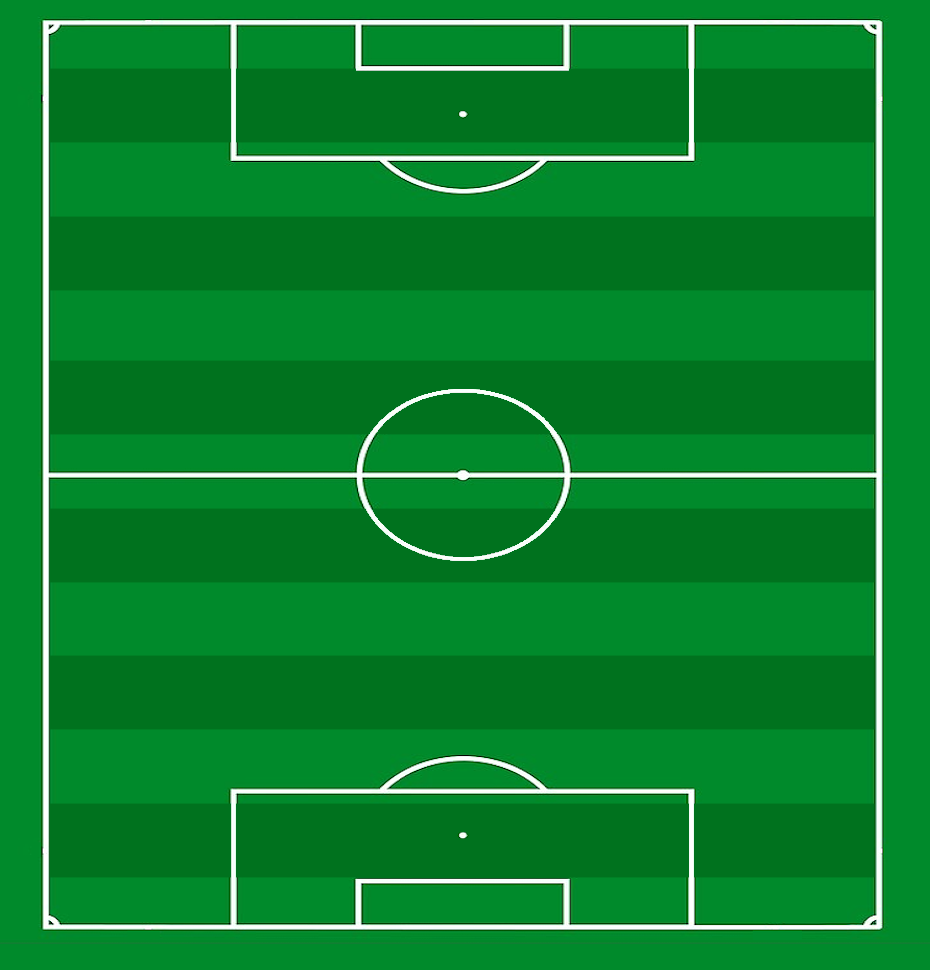
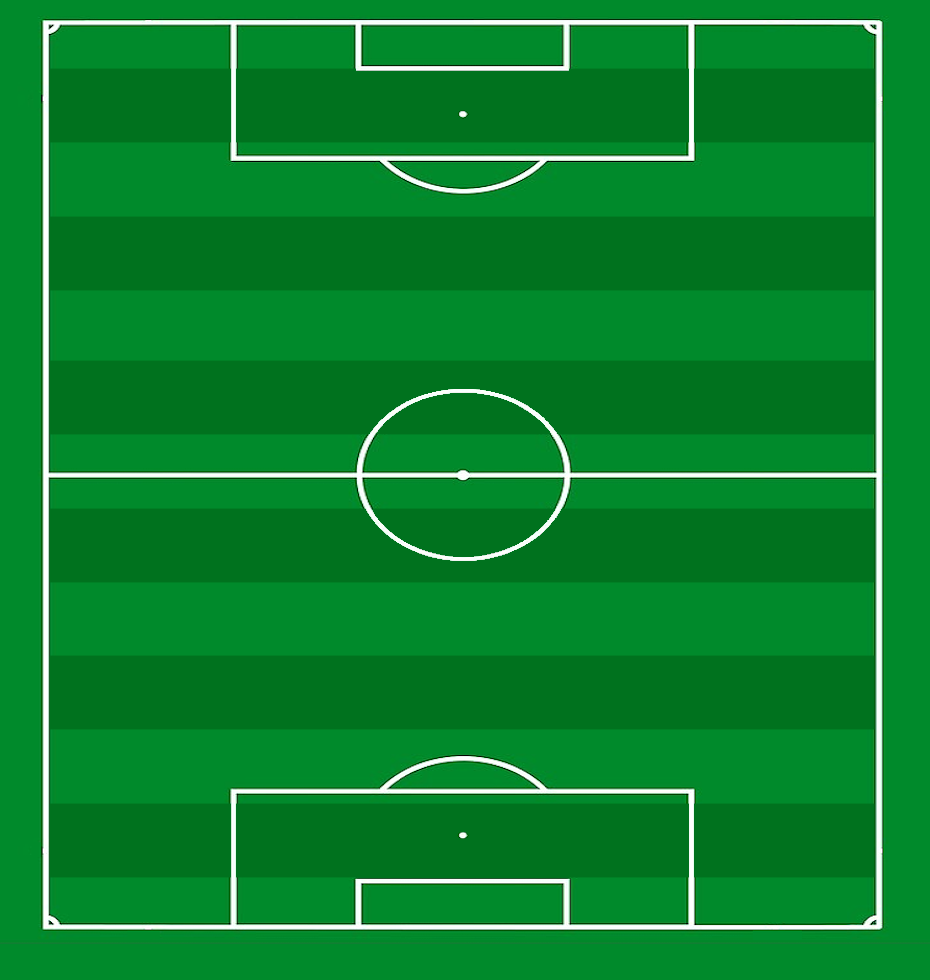
Added more space to bottom of pitch pngs, increased fontsize of filename on pitch and move the gk up a tad

diff --git a/src/components/FormationLayouts.js b/src/components/FormationLayouts.js
@@ -1,6 +1,6 @@
 const FormationLayouts = {
   "4-4-2(2)": [
-    { pos: "GK", x: 2.225, y: 6.715 },
+    { pos: "GK", x: 2.225, y: 6.6 },
     { pos: "LB", x: 0.45, y: 5.865 },
     { pos: "CB1", x: 1.475, y: 5.865 },
     { pos: "CB2", x: 2.95, y: 5.865 },
@@ -13,7 +13,7 @@ const FormationLayouts = {
     { pos: "CF2", x: 2.8, y: 1 },
   ],
   "4-4-2": [
-    { pos: "GK", x: 2.225, y: 6.715 },
+    { pos: "GK", x: 2.225, y: 6.6},
     { pos: "LB", x: 0.45, y: 5.865 },
     { pos: "CB1", x: 1.475, y: 5.865 },
     { pos: "CB2", x: 2.95, y: 5.865 },
@@ -26,7 +26,7 @@ const FormationLayouts = {
     { pos: "CF2", x: 2.8, y: 1 },
   ],
   "4-4-1-1": [
-    { pos: "GK", x: 2.225, y: 6.715 },
+    { pos: "GK", x: 2.225, y: 6.6},
     { pos: "LB", x: 0.45, y: 5.865 },
     { pos: "CB1", x: 1.475, y: 5.865 },
     { pos: "CB2", x: 2.95, y: 5.865 },
@@ -39,7 +39,7 @@ const FormationLayouts = {
     { pos: "CF", x: 2.225, y: 0.85 },
   ],
   "4-2-3-1": [
-    { pos: "GK", x: 2.225, y: 6.715 },
+    { pos: "GK", x: 2.225, y: 6.6},
     { pos: "LB", x: 0.45, y: 5.865 },
     { pos: "CB1", x: 1.475, y: 5.865 },
     { pos: "CB2", x: 2.95, y: 5.865 },
@@ -52,7 +52,7 @@ const FormationLayouts = {
     { pos: "CF", x: 2.225, y: 1 },
   ],
   "4-3-3": [
-    { pos: "GK", x: 2.225, y: 6.715 },
+    { pos: "GK", x: 2.225, y: 6.6},
     { pos: "LB", x: 0.45, y: 5.865 },
     { pos: "CB1", x: 1.475, y: 5.865 },
     { pos: "CB2", x: 2.95, y: 5.865 },
@@ -65,7 +65,7 @@ const FormationLayouts = {
     { pos: "RW", x: 4.05, y: 1 },
   ],
   "4-3-2-1": [
-    { pos: "GK", x: 2.225, y: 6.715 },
+    { pos: "GK", x: 2.225, y: 6.6},
     { pos: "LB", x: 0.45, y: 5.865 },
     { pos: "CB1", x: 1.475, y: 5.865 },
     { pos: "CB2", x: 2.95, y: 5.865 },
@@ -78,7 +78,7 @@ const FormationLayouts = {
     { pos: "CF", x: 2.225, y: 1 },
   ],
   "4-1-4-1": [
-    { pos: "GK", x: 2.225, y: 6.715 },
+    { pos: "GK", x: 2.225, y: 6.6},
     { pos: "LB", x: 0.45, y: 5.865 },
     { pos: "CB1", x: 1.475, y: 5.865 },
     { pos: "CB2", x: 2.95, y: 5.865 },
@@ -91,7 +91,7 @@ const FormationLayouts = {
     { pos: "CF", x: 2.225, y: 0.85 },
   ],
 "4-5-1": [
-    { pos: "GK", x: 2.225, y: 6.715 },
+    { pos: "GK", x: 2.225, y: 6.6},
     { pos: "LB", x: 0.45, y: 5.865 },
     { pos: "CB1", x: 1.475, y: 5.865 },
     { pos: "CB2", x: 2.95, y: 5.865 },
@@ -104,7 +104,7 @@ const FormationLayouts = {
     { pos: "CF", x: 2.225, y: 0.85 },
 ],
 "5-4-1": [
-  { pos: "GK", x: 2.225, y: 6.715 },
+    { pos: "GK", x: 2.225, y: 6.6},
   { pos: "LWB", x: 0.3, y: 5.865 },
   { pos: "CB1", x: 1.27, y: 5.865 },
   { pos: "CB2", x: 2.225, y: 5.865 },
@@ -117,7 +117,7 @@ const FormationLayouts = {
   { pos: "CF", x: 2.225, y: 0.85 },
 ],
   "3-5-2": [
-    { pos: "GK", x: 2.225, y: 6.715 },
+    { pos: "GK", x: 2.225, y: 6.6},
     { pos: "CB1", x: 1.27, y: 5.865 },
     { pos: "CB2", x: 2.225, y: 5.865 },
     { pos: "CB3", x: 3.175, y: 5.865 },
@@ -130,7 +130,7 @@ const FormationLayouts = {
     { pos: "CF2", x: 2.8, y: 1 },
   ],
   "3-4-3": [
-    { pos: "GK", x: 2.225, y: 6.715 },
+    { pos: "GK", x: 2.225, y: 6.6},
     { pos: "CB1", x: 1.27, y: 5.865 },
     { pos: "CB2", x: 2.225, y: 5.865 },
     { pos: "CB3", x: 3.175, y: 5.865 },
@@ -143,7 +143,7 @@ const FormationLayouts = {
     { pos: "RW", x: 4.05, y: 1 },
   ],
   "3-4-2-1": [
-    { pos: "GK", x: 2.225, y: 6.715 },
+    { pos: "GK", x: 2.225, y: 6.6},
     { pos: "CB1", x: 1.27, y: 5.865 },
     { pos: "CB2", x: 2.225, y: 5.865 },
     { pos: "CB3", x: 3.175, y: 5.865 },
@@ -156,7 +156,7 @@ const FormationLayouts = {
     { pos: "RW", x: 2.95, y: 2.125 },
   ],
   "3-4-1-2": [
-    { pos: "GK", x: 2.225, y: 6.715 },
+    { pos: "GK", x: 2.225, y: 6.6},
     { pos: "CB1", x: 1.27, y: 5.865 },
     { pos: "CB2", x: 2.225, y: 5.865 },
     { pos: "CB3", x: 3.175, y: 5.865 },
@@ -169,7 +169,7 @@ const FormationLayouts = {
     { pos: "CF2", x: 2.95, y: 1 },
   ],
   "3-2-4-1": [
-    { pos: "GK", x: 2.225, y: 6.715 },
+    { pos: "GK", x: 2.225, y: 6.6},
     { pos: "CB1", x: 1.27, y: 5.865 },
     { pos: "CB2", x: 2.225, y: 5.865 },
     { pos: "CB3", x: 3.175, y: 5.865 },

diff --git a/src/components/Pitch.js b/src/components/Pitch.js
@@ -407,10 +407,10 @@ const handleMouseDown = (pos) => (e) => {
     style={{
       position: "absolute",
       bottom: "0px",
-      left: "5px",
+      left: "30px",
       color: "white",
       fontWeight: "bold",
-      fontSize: "16px",
+      fontSize: "18px",
       textShadow: "1px 1px 3px rgba(0,0,0,0.7)",
       userSelect: "none",
       pointerEvents: "none",
